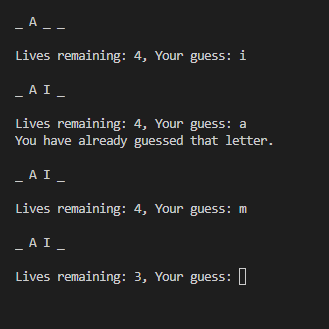
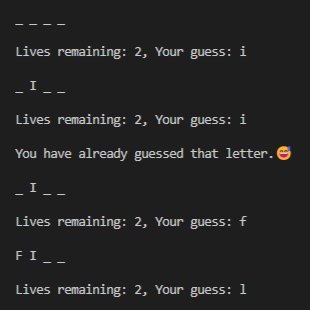
New screenshots

diff --git a/hangman/hangman.py b/hangman/hangman.py
@@ -25,7 +25,7 @@ while not done:
     guess = input(f"Lives remaining: {lives}, Your guess: ").strip().upper()
     
     if guess in chars:
-        print("You have already guessed that letter.")
+        print("\nYou have already guessed that letter.😅")
     elif guess in word:
         chars.append(guess)
     else:

diff --git a/README.md b/README.md
@@ -5,10 +5,10 @@ The [words](hangman/words.txt) used in this program belong to [Xethron.](https:/
 
 ## Screenshots
 ### **After winning:**
-<img src="Data/hm1.png" alt="Calculator1" width="400" height="400">
+<img src="Data/hm1.png" alt="Calculator1" width="350" height="350">
 
 ### **After losing:**
-<img src="Data/hm2.png" alt="Calculator2" width="400" height="400">
+<img src="Data/hm2.png" alt="Calculator2" width="350" height="350">
 
 ### **After guessing same letter:**
-<img src="Data/hm3.png" alt="Calculator3" width="400" height="400">
+<img src="Data/hm3.png" alt="Calculator3" width="350" height="350">
